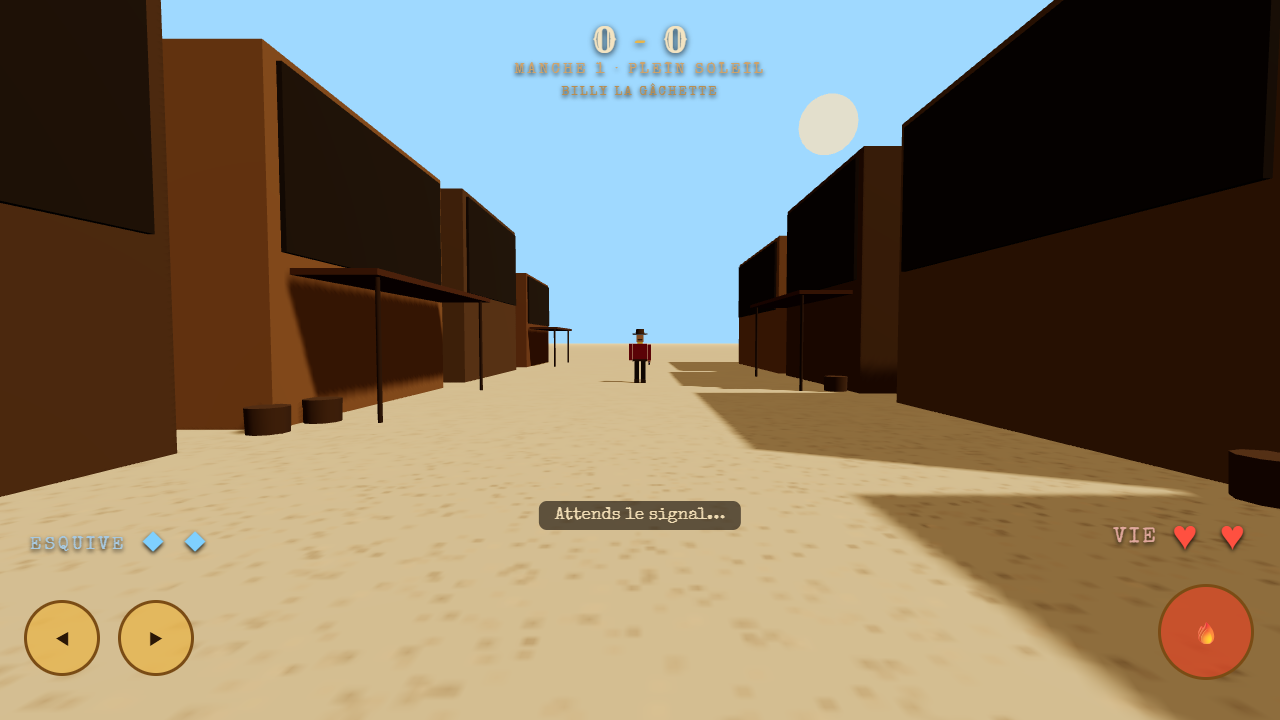
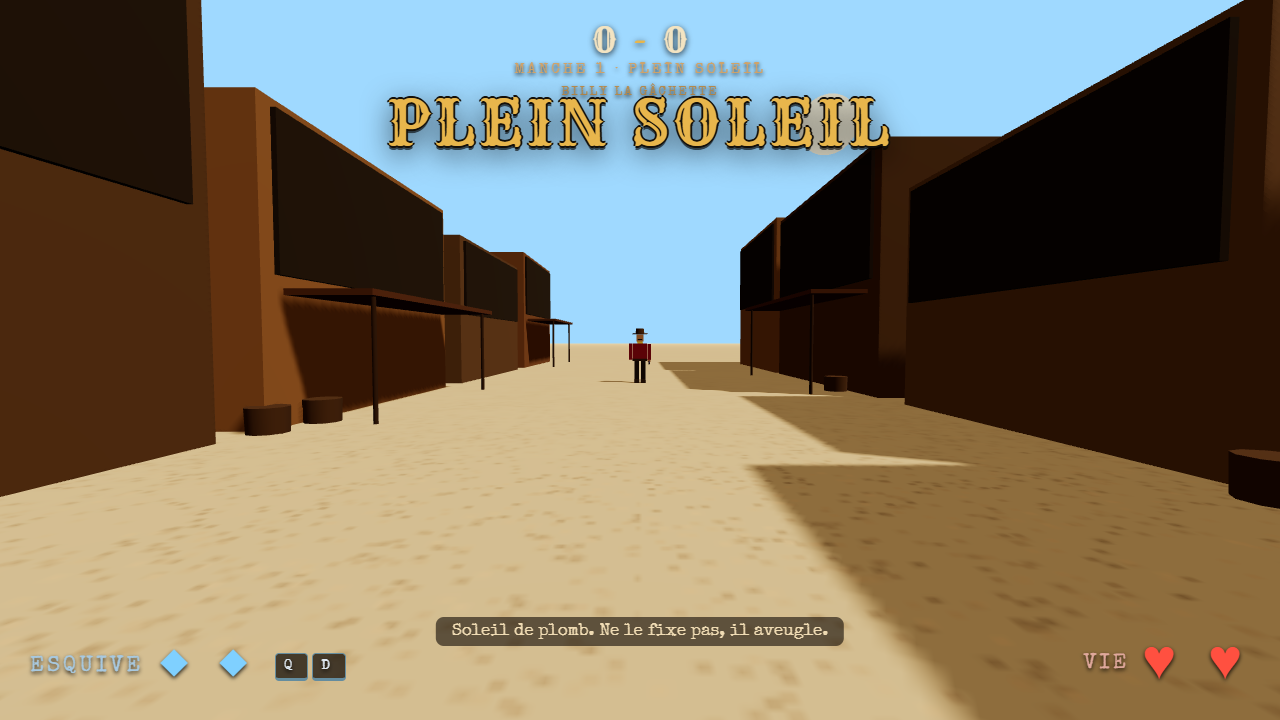
docs: release 1.3 - patch notes concis, aide et README a jour, screenshots

diff --git a/src/pages.js b/src/pages.js
@@ -1,13 +1,12 @@
 const PATCH = {
   en: [
-    { date: "July 7, 2026", version: "1.3", items: [
-      "Duel intro: \"opponent found\", a face-off, then the gunslingers walk up in the arena",
-      "Duel points and ranks on the leaderboard",
-      "Special outfits for the AI gunslingers",
-      "Interface scaled down for mobile and safe area notches",
-      "Win by forfeit when your opponent leaves",
-      "Daily and weekly challenges, combat music and a real sidestep",
-      "Real-time friend invitations and cleaner friend list"
+    { date: "July 9, 2026", version: "1.3", items: [
+      "Training camp while matchmaking searches",
+      "Cinematic duel intro: face-off, then the walk-up",
+      "Daily and weekly challenges",
+      "Friends, invites and challenges in real time",
+      "Ranks on the leaderboard and special AI outfits",
+      "Combat music, real sidestep, forfeit win, mobile UI"
     ] },
     { date: "July 6, 2026", version: "1.2", items: [
       "Slow-motion sepia kill cam",
@@ -30,14 +29,13 @@ const PATCH = {
     ] }
   ],
   fr: [
-    { date: "7 juillet 2026", version: "1.3", items: [
-      "Présentation du duel : « adversaire trouvé », face-à-face puis avancée des pistoleros dans l'arène",
-      "Points de duel et rangs au classement",
-      "Tenues spéciales pour les pistoleros IA",
-      "Interface optimisée pour mobile et encoches (Safe Area)",
-      "Victoire par forfait quand l'adversaire quitte",
-      "Défis quotidiens et hebdomadaires, musique de combat et vrai pas de côté",
-      "Invitations d'amis en temps réel par popup et nettoyage de la liste d'amis"
+    { date: "9 juillet 2026", version: "1.3", items: [
+      "Camp d'entraînement pendant la recherche d'adversaire",
+      "Intro de duel cinématique : face-à-face puis avancée",
+      "Défis quotidiens et hebdomadaires",
+      "Amis, invitations et défis en temps réel",
+      "Rangs au classement et tenues spéciales pour les IA",
+      "Musique de combat, vrai pas de côté, victoire par forfait, UI mobile"
     ] },
     { date: "6 juillet 2026", version: "1.2", items: [
       "Kill cam au ralenti avec zoom sépia",
@@ -60,13 +58,13 @@ const PATCH = {
     ] }
   ],
   es: [
-    { date: "7 de julio de 2026", version: "1.3", items: [
-      "Presentación del duelo: «rival encontrado», cara a cara y avance de los pistoleros en la arena",
-      "Puntos de duelo y rangos en la clasificación",
-      "Atuendos especiales para los pistoleros de IA",
-      "Interfaz reducida para móvil (misma disposición que en PC)",
-      "Victoria por abandono cuando el rival se va",
-      "Desafíos diarios y semanales, música de combate y paso lateral real"
+    { date: "9 de julio de 2026", version: "1.3", items: [
+      "Campo de entrenamiento mientras buscas rival",
+      "Presentación cinematográfica del duelo: cara a cara y avance",
+      "Desafíos diarios y semanales",
+      "Amigos, invitaciones y retos en tiempo real",
+      "Rangos en la clasificación y atuendos especiales para la IA",
+      "Música de combate, paso lateral real, victoria por abandono, interfaz móvil"
     ] },
     { date: "6 de julio de 2026", version: "1.2", items: [
       "Kill cam a cámara lenta en sepia",
@@ -89,13 +87,13 @@ const PATCH = {
     ] }
   ],
   de: [
-    { date: "7. Juli 2026", version: "1.3", items: [
-      "Duell-Vorstellung: „Gegner gefunden“, Face-off und Anmarsch der Revolverhelden in der Arena",
-      "Duellpunkte und Ränge in der Bestenliste",
-      "Besondere Outfits für die KI-Revolverhelden",
-      "Oberfläche für Mobilgeräte verkleinert (gleiches Layout wie am PC)",
-      "Sieg durch Aufgabe, wenn der Gegner geht",
-      "Tägliche und wöchentliche Aufgaben, Kampfmusik und echter Seitenschritt"
+    { date: "9. Juli 2026", version: "1.3", items: [
+      "Trainingslager während der Gegnersuche",
+      "Filmreife Duell-Vorstellung: Face-off und Anmarsch",
+      "Tägliche und wöchentliche Aufgaben",
+      "Freunde, Einladungen und Duelle in Echtzeit",
+      "Ränge in der Bestenliste und besondere KI-Outfits",
+      "Kampfmusik, echter Seitenschritt, Sieg durch Aufgabe, mobile Oberfläche"
     ] },
     { date: "6. Juli 2026", version: "1.2", items: [
       "Zeitlupen-Kill-Cam in Sepia",
@@ -118,13 +116,13 @@ const PATCH = {
     ] }
   ],
   pt: [
-    { date: "7 de julho de 2026", version: "1.3", items: [
-      "Apresentação do duelo: «oponente encontrado», o confronto e o avanço dos pistoleiros na arena",
-      "Pontos de duelo e patentes na classificação",
-      "Trajes especiais para os pistoleiros de IA",
-      "Interface reduzida para o celular (mesmo layout do PC)",
-      "Vitória por desistência quando o oponente sai",
-      "Desafios diários e semanais, música de combate e passo lateral real"
+    { date: "9 de julho de 2026", version: "1.3", items: [
+      "Campo de treino enquanto procuras oponente",
+      "Apresentação cinematográfica do duelo: confronto e avanço",
+      "Desafios diários e semanais",
+      "Amigos, convites e desafios em tempo real",
+      "Patentes na classificação e trajes especiais para a IA",
+      "Música de combate, passo lateral real, vitória por desistência, interface móvel"
     ] },
     { date: "6 de julho de 2026", version: "1.2", items: [
       "Kill cam em câmera lenta sépia",
@@ -147,13 +145,13 @@ const PATCH = {
     ] }
   ],
   ru: [
-    { date: "7 июля 2026", version: "1.3", items: [
-      "Представление дуэли: «соперник найден», лицом к лицу и сближение стрелков на арене",
-      "Очки дуэли и ранги в таблице лидеров",
-      "Особые наряды для стрелков с ИИ",
-      "Интерфейс уменьшен для мобильных (та же раскладка, что на ПК)",
-      "Победа при выходе соперника из боя",
-      "Ежедневные и еженедельные задания, боевая музыка и настоящий шаг в сторону"
+    { date: "9 июля 2026", version: "1.3", items: [
+      "Тренировочный лагерь во время поиска соперника",
+      "Кинематографичное представление дуэли: лицом к лицу и сближение",
+      "Ежедневные и еженедельные задания",
+      "Друзья, приглашения и вызовы в реальном времени",
+      "Ранги в таблице лидеров и особые наряды ИИ",
+      "Боевая музыка, шаг в сторону, победа при выходе соперника, мобильный интерфейс"
     ] },
     { date: "6 июля 2026", version: "1.2", items: [
       "Замедленная сепия кил-кам",
@@ -176,13 +174,13 @@ const PATCH = {
     ] }
   ],
   tr: [
-    { date: "7 Temmuz 2026", version: "1.3", items: [
-      "Düello tanıtımı: «rakip bulundu», yüz yüze ve silahşorların arenada yaklaşması",
-      "Düello puanları ve sıralamada rütbeler",
-      "Yapay zekâ silahşorları için özel kıyafetler",
-      "Arayüz mobil için küçültüldü (PC ile aynı yerleşim)",
-      "Rakip ayrıldığında hükmen galibiyet",
-      "Günlük ve haftalık görevler, savaş müziği ve gerçek yan adım"
+    { date: "9 Temmuz 2026", version: "1.3", items: [
+      "Rakip aranırken antrenman kampı",
+      "Sinematik düello tanıtımı: yüz yüze ve yaklaşma",
+      "Günlük ve haftalık görevler",
+      "Gerçek zamanlı arkadaşlar, davetler ve meydan okumalar",
+      "Sıralamada rütbeler ve yapay zekâya özel kıyafetler",
+      "Savaş müziği, gerçek yan adım, hükmen galibiyet, mobil arayüz"
     ] },
     { date: "6 Temmuz 2026", version: "1.2", items: [
       "Ağır çekim sepya kill cam",

diff --git a/src/i18n.js b/src/i18n.js
@@ -18,7 +18,8 @@ const STRINGS = {
       "<p><strong>Round modifiers.</strong> Dusk, fog, gusts: every round changes the conditions. The duel's distance also varies silently from round to round.</p>" +
       "<p><strong>First to 3 rounds wins.</strong></p>" +
       "<p><strong>Comeback.</strong> The loser of a round picks one of three random perks for the rest of the duel.</p>" +
-      "<p><strong>Ranked & outfits.</strong> You get a gunslinger name automatically (your CrazyGames name if you're logged in). Click your card at the top left to see your profile and spend your coins on outfits. Climb the leaderboard in ranked duels (they pay far more than the AI), or challenge a friend with an invite link - friendly duels are just for honor.</p>",
+      "<p><strong>Ranked & outfits.</strong> You get a gunslinger name automatically (your CrazyGames name if you're logged in). Click your card at the top left to see your profile and spend your coins on outfits. Climb the leaderboard in ranked duels (they pay far more than the AI), or challenge a friend with an invite link - friendly duels are just for honor.</p>" +
+      "<p><strong>Training camp.</strong> While matchmaking looks for an opponent, warm up against the camp dummy - the real duel starts the moment a rival is found.</p>",
     searchTitle: "Looking for an opponent…",
     cancel: "CANCEL",
     btnContinue: "CONTINUE",
@@ -228,7 +229,8 @@ const STRINGS = {
       "<p><strong>Manches à modificateurs.</strong> Crépuscule, brume, rafales : chaque manche change les conditions. La distance du duel varie aussi silencieusement à chaque manche.</p>" +
       "<p><strong>Premier à 3 manches gagnées.</strong></p>" +
       "<p><strong>Remontada.</strong> Le perdant d'une manche choisit un avantage parmi trois tirés au hasard, pour le reste du duel.</p>" +
-      "<p><strong>Classé & tenues.</strong> Un nom de pistolero t'est attribué automatiquement (ton pseudo CrazyGames si tu es connecté). Clique sur ta carte en haut à gauche pour voir ton profil et dépenser tes pièces en tenues. Grimpe au classement en duel classé (bien plus payant que l'IA), ou défie un ami avec un lien d'invitation - les duels amicaux ne rapportent que l'honneur.</p>",
+      "<p><strong>Classé & tenues.</strong> Un nom de pistolero t'est attribué automatiquement (ton pseudo CrazyGames si tu es connecté). Clique sur ta carte en haut à gauche pour voir ton profil et dépenser tes pièces en tenues. Grimpe au classement en duel classé (bien plus payant que l'IA), ou défie un ami avec un lien d'invitation - les duels amicaux ne rapportent que l'honneur.</p>" +
+      "<p><strong>Camp d'entraînement.</strong> Pendant la recherche d'adversaire, échauffe-toi contre le mannequin du camp - le vrai duel démarre dès qu'un rival est trouvé.</p>",
     searchTitle: "Recherche d'un adversaire…",
     cancel: "ANNULER",
     btnContinue: "CONTINUER",
@@ -438,7 +440,8 @@ const STRINGS = {
       "<p><strong>Rondas con modificadores.</strong> Crepúsculo, niebla, ráfagas: cada ronda cambia las condiciones. La distancia del duelo también varía en silencio.</p>" +
       "<p><strong>Gana el primero en llegar a 3 rondas.</strong></p>" +
       "<p><strong>Remontada.</strong> El perdedor de una ronda elige una ventaja entre tres al azar, para el resto del duelo.</p>" +
-      "<p><strong>Clasificatoria y atuendos.</strong> Recibes un nombre de pistolero automáticamente (tu nombre de CrazyGames si has iniciado sesión). Haz clic en tu tarjeta arriba a la izquierda para ver tu perfil y gastar tus monedas en atuendos. Sube en la clasificación en duelos clasificatorios (pagan mucho más que la IA), o desafía a un amigo con un enlace - los duelos amistosos son solo por honor.</p>",
+      "<p><strong>Clasificatoria y atuendos.</strong> Recibes un nombre de pistolero automáticamente (tu nombre de CrazyGames si has iniciado sesión). Haz clic en tu tarjeta arriba a la izquierda para ver tu perfil y gastar tus monedas en atuendos. Sube en la clasificación en duelos clasificatorios (pagan mucho más que la IA), o desafía a un amigo con un enlace - los duelos amistosos son solo por honor.</p>" +
+      "<p><strong>Campo de entrenamiento.</strong> Mientras el matchmaking busca rival, calienta contra el muñeco del campamento - el duelo real empieza en cuanto aparece un rival.</p>",
     searchTitle: "Buscando un rival…",
     cancel: "CANCELAR",
     btnContinue: "CONTINUAR",
@@ -647,7 +650,8 @@ const STRINGS = {
       "<p><strong>Runden-Modifikatoren.</strong> Dämmerung, Nebel, Böen: jede Runde ändert die Bedingungen. Auch die Duell-Distanz variiert still von Runde zu Runde.</p>" +
       "<p><strong>Wer zuerst 3 Runden gewinnt, siegt.</strong></p>" +
       "<p><strong>Comeback.</strong> Der Verlierer einer Runde wählt einen von drei zufälligen Vorteilen für den Rest des Duells.</p>" +
-      "<p><strong>Rangliste & Outfits.</strong> Du bekommst automatisch einen Revolverhelden-Namen (deinen CrazyGames-Namen, wenn du eingeloggt bist). Klicke auf deine Karte oben links, um dein Profil zu sehen und Münzen für Outfits auszugeben. Klettere in Ranglisten-Duellen die Rangliste hoch (sie zahlen viel mehr als die KI) oder fordere einen Freund per Einladungslink heraus - Freundschaftsduelle sind reine Ehrensache.</p>",
+      "<p><strong>Rangliste & Outfits.</strong> Du bekommst automatisch einen Revolverhelden-Namen (deinen CrazyGames-Namen, wenn du eingeloggt bist). Klicke auf deine Karte oben links, um dein Profil zu sehen und Münzen für Outfits auszugeben. Klettere in Ranglisten-Duellen die Rangliste hoch (sie zahlen viel mehr als die KI) oder fordere einen Freund per Einladungslink heraus - Freundschaftsduelle sind reine Ehrensache.</p>" +
+      "<p><strong>Trainingslager.</strong> Während die Gegnersuche läuft, wärm dich am Übungsdummy auf - das echte Duell startet, sobald ein Gegner gefunden ist.</p>",
     searchTitle: "Suche einen Gegner…",
     cancel: "ABBRECHEN",
     btnContinue: "WEITER",
@@ -856,7 +860,8 @@ const STRINGS = {
       "<p><strong>Rodadas com modificadores.</strong> Crepúsculo, névoa, rajadas: cada rodada muda as condições. A distância do duelo também varia em silêncio.</p>" +
       "<p><strong>Vence quem fizer 3 rodadas primeiro.</strong></p>" +
       "<p><strong>Virada.</strong> O perdedor de uma rodada escolhe uma vantagem entre três sorteadas, para o resto do duelo.</p>" +
-      "<p><strong>Ranqueada e trajes.</strong> Você recebe um nome de pistoleiro automaticamente (seu nome do CrazyGames se estiver logado). Clique no seu cartão no canto superior esquerdo para ver seu perfil e gastar suas moedas em trajes. Suba no ranking nos duelos ranqueados (pagam muito mais que a IA), ou desafie um amigo com um link de convite - duelos amistosos valem só a honra.</p>",
+      "<p><strong>Ranqueada e trajes.</strong> Você recebe um nome de pistoleiro automaticamente (seu nome do CrazyGames se estiver logado). Clique no seu cartão no canto superior esquerdo para ver seu perfil e gastar suas moedas em trajes. Suba no ranking nos duelos ranqueados (pagam muito mais que a IA), ou desafie um amigo com um link de convite - duelos amistosos valem só a honra.</p>" +
+      "<p><strong>Campo de treino.</strong> Enquanto o matchmaking procura oponente, aquece contra o boneco do acampamento - o duelo real começa assim que houver rival.</p>",
     searchTitle: "Procurando um oponente…",
     cancel: "CANCELAR",
     btnContinue: "CONTINUAR",
@@ -1065,7 +1070,8 @@ const STRINGS = {
       "<p><strong>Модификаторы раундов.</strong> Сумерки, туман, порывы ветра: каждый раунд меняет условия. Дистанция дуэли тоже незаметно меняется.</p>" +
       "<p><strong>Побеждает первый, взявший 3 раунда.</strong></p>" +
       "<p><strong>Камбэк.</strong> Проигравший раунд выбирает одно из трёх случайных преимуществ до конца дуэли.</p>" +
-      "<p><strong>Рейтинг и наряды.</strong> Имя стрелка выдаётся автоматически (твой ник CrazyGames, если ты вошёл). Кликни по своей карточке слева сверху, чтобы открыть профиль и потратить монеты на наряды. Поднимайся в таблице лидеров в рейтинговых дуэлях (они платят куда больше ИИ) или вызови друга по ссылке - дружеские дуэли только ради чести.</p>",
+      "<p><strong>Рейтинг и наряды.</strong> Имя стрелка выдаётся автоматически (твой ник CrazyGames, если ты вошёл). Кликни по своей карточке слева сверху, чтобы открыть профиль и потратить монеты на наряды. Поднимайся в таблице лидеров в рейтинговых дуэлях (они платят куда больше ИИ) или вызови друга по ссылке - дружеские дуэли только ради чести.</p>" +
+      "<p><strong>Тренировочный лагерь.</strong> Пока идёт поиск соперника, разомнись на манекене лагеря - настоящая дуэль начнётся, как только найдётся соперник.</p>",
     searchTitle: "Поиск противника…",
     cancel: "ОТМЕНА",
     btnContinue: "ПРОДОЛЖИТЬ",
@@ -1274,7 +1280,8 @@ const STRINGS = {
       "<p><strong>Raunt değiştiricileri.</strong> Alacakaranlık, sis, rüzgar: her raunt koşulları değiştirir. Düello mesafesi de sessizce değişir.</p>" +
       "<p><strong>3 raundu ilk kazanan yener.</strong></p>" +
       "<p><strong>Geri dönüş.</strong> Raundu kaybeden, düellonun geri kalanı için rastgele üç avantajdan birini seçer.</p>" +
-      "<p><strong>Dereceli ve kıyafetler.</strong> Sana otomatik bir silahşor adı verilir (giriş yaptıysan CrazyGames adın). Profilini görmek ve altınlarını kıyafetlere harcamak için sol üstteki kartına tıkla. Dereceli düellolarda sıralamada yüksel (yapay zekadan çok daha fazla kazandırır) ya da davet bağlantısıyla bir arkadaşına meydan oku - dostluk düelloları sadece onur içindir.</p>",
+      "<p><strong>Dereceli ve kıyafetler.</strong> Sana otomatik bir silahşor adı verilir (giriş yaptıysan CrazyGames adın). Profilini görmek ve altınlarını kıyafetlere harcamak için sol üstteki kartına tıkla. Dereceli düellolarda sıralamada yüksel (yapay zekadan çok daha fazla kazandırır) ya da davet bağlantısıyla bir arkadaşına meydan oku - dostluk düelloları sadece onur içindir.</p>" +
+      "<p><strong>Antrenman kampı.</strong> Eşleştirme rakip ararken kampın mankenine karşı ısın - gerçek düello rakip bulunur bulunmaz başlar.</p>",
     searchTitle: "Rakip aranıyor…",
     cancel: "İPTAL",
     btnContinue: "DEVAM",

diff --git a/README.md b/README.md
@@ -19,6 +19,10 @@
 |:-:|:-:|
 | ![Menu](docs/screenshot_menu.png) | ![Gameplay](docs/screenshot_game.png) |
 
+| Face-à-face | Camp d'entraînement |
+|:-:|:-:|
+| ![Face-à-face](docs/screenshot_faceoff.png) | ![Camp d'entraînement](docs/screenshot_training.png) |
+
 
 
 ## 🌐 Jouer dans le navigateur
@@ -95,7 +99,7 @@ Le perdant d'une manche choisit un avantage parmi trois tirés au hasard, pour l
 | 🌵 El Rápido | Le plus rapide de l'Ouest, vise la tête |
 | 🥃 Doc Silence | Lent au signal, mais ne rate jamais une faute |
 
-Chaque pistolero IA arbore une **tenue qui lui est propre** (couleurs, arme et accessoires signature), introuvable en boutique.
+Chaque pistolero IA arbore une **tenue qui lui est propre** (couleurs, arme et accessoires signature), introuvable en boutique. Un quatrième pistolero, **Old Jed**, ne se rencontre qu'au camp d'entraînement.
 
 Si un adversaire en ligne quitte ou reste inactif, la manche n'est plus bloquée : **victoire par forfait** accordée automatiquement.
 
@@ -122,7 +126,7 @@ Le duel en ligne passe par **Supabase Realtime** : matchmaking par présence (le
 
 Le signal du duel est **imposé par l'hôte** : quand les deux joueurs sont prêts, l'hôte déclenche le « FEU ! » et le diffuse, l'autre client le calque à l'instant près - fini les manches désynchronisées où l'un tire pendant que l'autre attend.
 
-**Le cercle d'amis** : une **barre latérale pleine hauteur à gauche** de l'accueil (façon Fortnite), sous la carte joueur, avec l'ajout d'ami épinglé tout en bas. Sur CrazyGames, elle liste directement tes **amis CrazyGames** (via `user.listFriends()`) avec leur avatar - un bouton DUEL si l'ami joue déjà et est en ligne, sinon INVITER via le système d'invitation CrazyGames. Hors CrazyGames, tu ajoutes des amis par pseudo. Un défi envoie une notification en temps réel qui s'affiche sur l'accueil de l'ami, et le duel démarre dès qu'il accepte.
+**Le cercle d'amis** : une **barre latérale pleine hauteur à gauche** de l'accueil (façon Fortnite), sous la carte joueur, avec l'ajout d'ami épinglé tout en bas. Sur CrazyGames, elle liste directement tes **amis CrazyGames** (via `user.listFriends()`) avec leur avatar - un bouton DUEL si l'ami joue déjà et est en ligne, sinon INVITER via le système d'invitation CrazyGames. Hors CrazyGames, tu ajoutes des amis par pseudo. Toutes les actions d'amis (demande, acceptation, refus, suppression) se propagent **en temps réel** : la liste de l'autre joueur se met à jour instantanément. Un défi envoie une notification en temps réel sur l'accueil de l'ami : le duel démarre dès qu'il accepte, et un refus (ou une absence de réponse) te sort aussitôt de l'attente avec une alerte.
 
 Deux garde-fous réseau : impossible de **s'affronter soi-même** (deux onglets du même compte ne s'apparient jamais, l'identité de compte étant portée par la présence), et une fois les deux joueurs prêts (premier focus), le déroulé de la partie est **imposé** et continue même si un onglet perd le focus ou passe en arrière-plan.
 
@@ -131,6 +135,8 @@ Deux garde-fous réseau : impossible de **s'affronter soi-même** (deux onglets 
 ## 🏆 Mode classé
 
 Chaque joueur reçoit automatiquement un pseudo (« Player1234 », ou son pseudo CrazyGames s'il est connecté là-bas) porté par un compte anonyme Supabase. En **duel classé**, pseudo, tenue et **rang** (Novice, Tireur, Desperado, Légende de l'Ouest, selon les points accumulés) sont visibles par l'adversaire, et le **classement** affiche les 20 meilleurs pistoleros (tête du skin, pseudo, rang, points). Chaque match rapporte des pièces - le classé paie bien plus que l'IA, et les duels amicaux ne rapportent rien du tout.
+
+**Camp d'entraînement** : pendant la recherche d'adversaire, un bouton lance un duel d'échauffement contre **Old Jed**, le mannequin du camp - sans rang ni pièces. Le chrono de recherche reste affiché en jeu et le duel classé démarre tout seul dès qu'un adversaire est trouvé ; quitter l'entraînement ramène sur l'écran de recherche sans perdre sa place dans la file.
 
 Le classement repose sur des **points de duel cumulés** : une victoire en rapporte d'autant plus que l'adversaire est fort, une défaite n'en coûte qu'une poignée et le total ne descend jamais sous le seuil de départ (1000). Les **rangs** sont des paliers de ce total, pour un système lisible qui monte surtout à la victoire (plutôt qu'un Elo qui zigzague). Un garde-fou **anti-matchs arrangés** réduit les gains quand on rejoue le même adversaire dans la journée : points et pièces divisés par deux au deuxième duel, plus aucun point à partir du troisième.
 
@@ -189,7 +195,7 @@ npm install
 npm run dev
 ```
 
-Le duel en ligne, les comptes et le classé demandent un projet [Supabase](https://supabase.com) : renseigner l'URL et la clé publishable dans `src/config.js`, exécuter `db/schema.sql` dans le SQL Editor et activer les anonymous sign-ins. Sans ça, le jeu reste jouable contre l'IA.
+Le duel en ligne, les comptes et le classé demandent un projet [Supabase](https://supabase.com) : renseigner l'URL et la clé publishable dans `src/config.js`, exécuter `db/schema.sql` dans le SQL Editor (idempotent - il active aussi la réplication temps réel de la table `friendships`) et activer les anonymous sign-ins. Sans ça, le jeu reste jouable contre l'IA.
 
 
 
@@ -205,7 +211,7 @@ high-noon/
 │   ├── net.js          # Matchmaking (casual + classé) et protocole réseau
 │   ├── account.js      # Comptes, profil, rang, pièces, amis (Supabase)
 │   ├── skins.js        # Catalogue de tenues et portraits 3D générés
-│   ├── pages.js        # Notes de version et textes légaux (FR/EN)
+│   ├── pages.js        # Notes de version et textes légaux (7 langues)
 │   ├── sdk.js          # Intégration du SDK CrazyGames
 │   ├── scene.js        # Arène 3D, éclairages, modificateurs de manche
 │   ├── cowboy.js        # Personnage adverse et ses animations